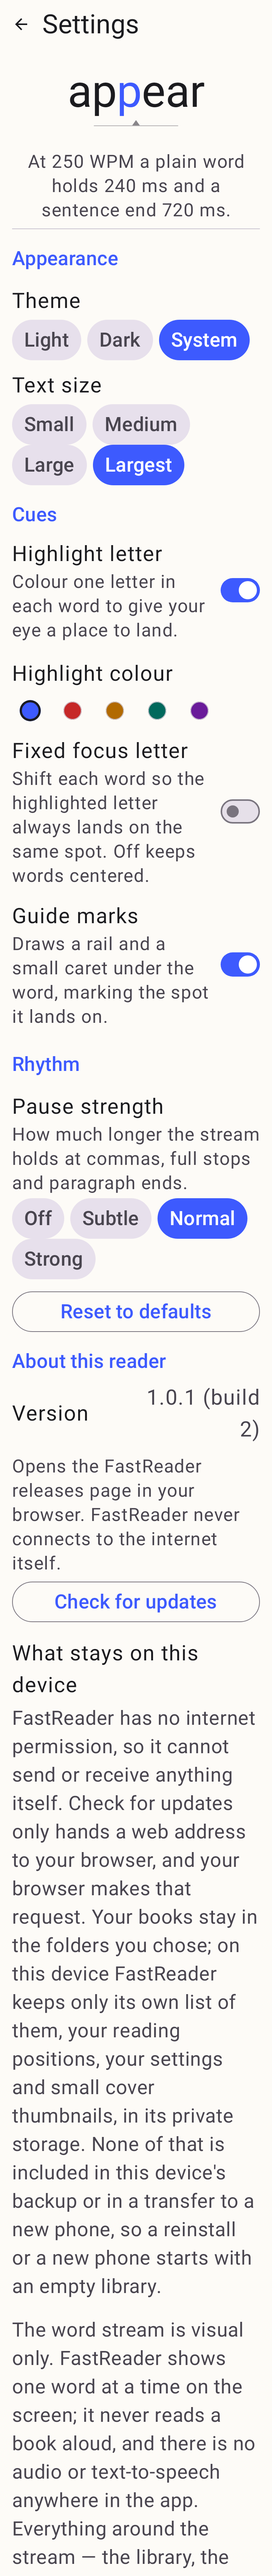
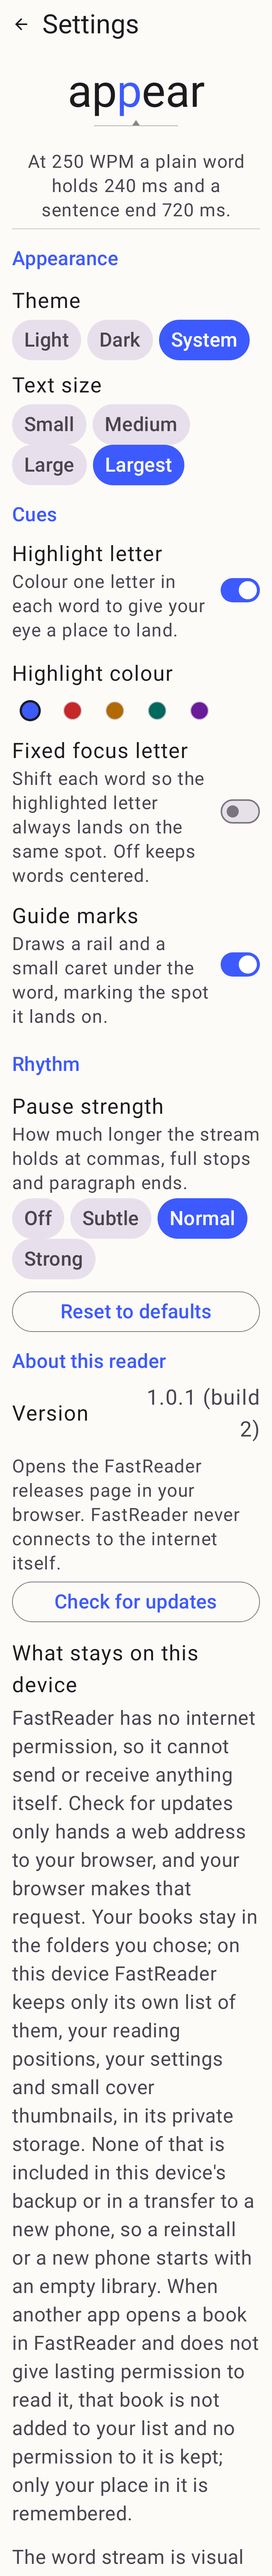
Gate the generic-type filters on minSdk too, and say what a shared book keeps
Two review findings.

**pathAdvancedPattern is API 31, not API 26.** The comment asserted the wrong
level (`android/R$attr.pathAdvancedPattern` is `since="31"` in the SDK's own
api-versions.xml), and the consequence was not cosmetic: on API 26-30 — inside
this app's minSdk — the parser drops the attribute, leaving the three
generic-MIME filters as `scheme=content, host=*, mimeType=...` with no path
constraint at all. That is FastReader in the chooser for every binary on the
device, which the manifest comment itself promises to avoid. Two pathPattern
elements (API 1) now carry the gate on older releases; pathAdvancedPattern stays
for the full case-insensitive match on 31+. All <data> elements in one filter
contribute to the same sets, so the paths are OR-ed with each other and with the
MIME types and need no mimeType of their own. Confirmed in the packaged
manifest: `aapt2 dump xmltree` shows both pathPattern values survive escaping.

**REQ-107's session-only clause.** The privacy statement described an app with
no external-open path. It now ends with the sentence this leaf makes true — a
handed-over book with no lasting permission gets no library row and no retained
grant, and only the reading position is kept — in the string, in the release-
notes block, and as a row of the table with the grant dump behind it.
`PrivacyStatementTest` holds the two surfaces together and now asserts the fifth
claim as well, so softening it stays a deliberate edit.
[…]

Changed region(s): [[0.0306, 0.8729, 0.9167, 0.9976]]

diff --git a/app/src/test/java/com/cedagova/fastreader/app/PrivacyStatementTest.kt b/app/src/test/java/com/cedagova/fastreader/app/PrivacyStatementTest.kt
@@ -43,7 +43,7 @@ class PrivacyStatementTest {
      * well. Each maps to a row of the table in `docs/privacy-statement.md`.
      */
     @Test
-    fun `the statement still makes the four claims the build backs up`() {
+    fun `the statement still makes the five claims the build backs up`() {
         val statement = oneLine(shownInApp())
 
         listOf(
@@ -51,6 +51,7 @@ class PrivacyStatementTest {
             "hands a web address to your browser",
             "your books stay in the folders you chose",
             "is included in this device's backup or in a transfer to a new phone",
+            "not added to your list and no permission to it is kept",
         ).forEach { claim ->
             assertTrue("the statement no longer says \"$claim\": $statement",
                 statement.contains(claim, ignoreCase = true))

diff --git a/docs/privacy-statement.md b/docs/privacy-statement.md
@@ -16,7 +16,10 @@ browser makes that request. Your books stay in the folders you chose; on this
 device FastReader keeps only its own list of them, your reading positions, your
 settings and small cover thumbnails, in its private storage. None of that is
 included in this device's backup or in a transfer to a new phone, so a reinstall
-or a new phone starts with an empty library.
+or a new phone starts with an empty library. When another app opens a book in
+FastReader and does not give lasting permission to read it, that book is not
+added to your list and no permission to it is kept; only your place in it is
+remembered.
 <!-- privacy-statement:end -->
 
 ## What each sentence rests on
@@ -32,3 +35,4 @@ observed doing. Nothing here is an intention.
 | FastReader keeps only its own list of them, reading positions, settings and small cover thumbnails, in its private storage. | `LibraryGraph` wires two stores under `filesDir` — `catalog/catalog.json` (books, positions and settings) and `covers/` — and `SharedPreferencesThemeMirror` keeps a one-key copy of the theme in `shared_prefs/launch-theme.xml` so the splash resolves correctly. No database, nothing on external storage. | Emulator, `run-as com.cedagova.fastreader ls -R .` after adding two books and reading one: `files/catalog/catalog.json`, two files in `files/covers/`, `shared_prefs/launch-theme.xml`, and the platform's own zero-byte `files/profileInstalled` marker. Nothing else, and `databases/`, `cache/` and `no_backup/` are empty. |
 | None of that is included in this device's backup or in a transfer to a new phone. | `android:allowBackup="false"` plus `res/xml/data_extraction_rules.xml`, which excludes every domain — `root`, `file`, `database`, `sharedpref`, `external` and their `device_*` twins — from both `<cloud-backup>` and `<device-transfer>` (AD-11). The attribute alone is not enough: Android 12+ device transfer ignores it. | Emulator, on the same seeded library: the cloud transport answers "Backup is not allowed" and the device-transfer transport takes zero bytes, where the pre-change build handed both 9,728 bytes containing `catalog.json` and the covers (`docs/evidence/46/backup-run-phone-mid-api36.txt`). |
 | A reinstall or a new phone starts with an empty library. | Follows from the line above, and from SAF grants not surviving a reinstall either (D3). | Emulator: uninstall, reinstall, launch — the empty-library state, with a fresh `catalog.json` whose `books` array is empty (`docs/evidence/46/reinstall-empty-library-phone-mid-api36.png`). |
+| When another app opens a book and does not give lasting permission, the book is not added to your list and no permission to it is kept; only your place in it is remembered. | `ExternalOpenController.resolveIdentity` adds a library row only when `takePersistableUriPermission` succeeds, and releases a grant that persisted but produced no row; the reading position is stored under the book's whole-file SHA-256, like every other position (AD-9), so it survives without anything else about the book surviving. | Emulator, three grants from this package at one moment: the two books handed over by the Files app are `persistable=0x0 persisted=0x0`, the same file taken through FastReader's own picker is `persistable=0x3 persisted=0x1` (`docs/evidence/44/uri-grants-phone-mid-api36.txt`). After reading a handed-over book to 33 % and closing it, `catalog.json` holds `"books":[]` and one `readingStates` entry, and the library screen is empty (`docs/evidence/44/library-has-no-row-after-closing-phone-mid-api36.png`). |
